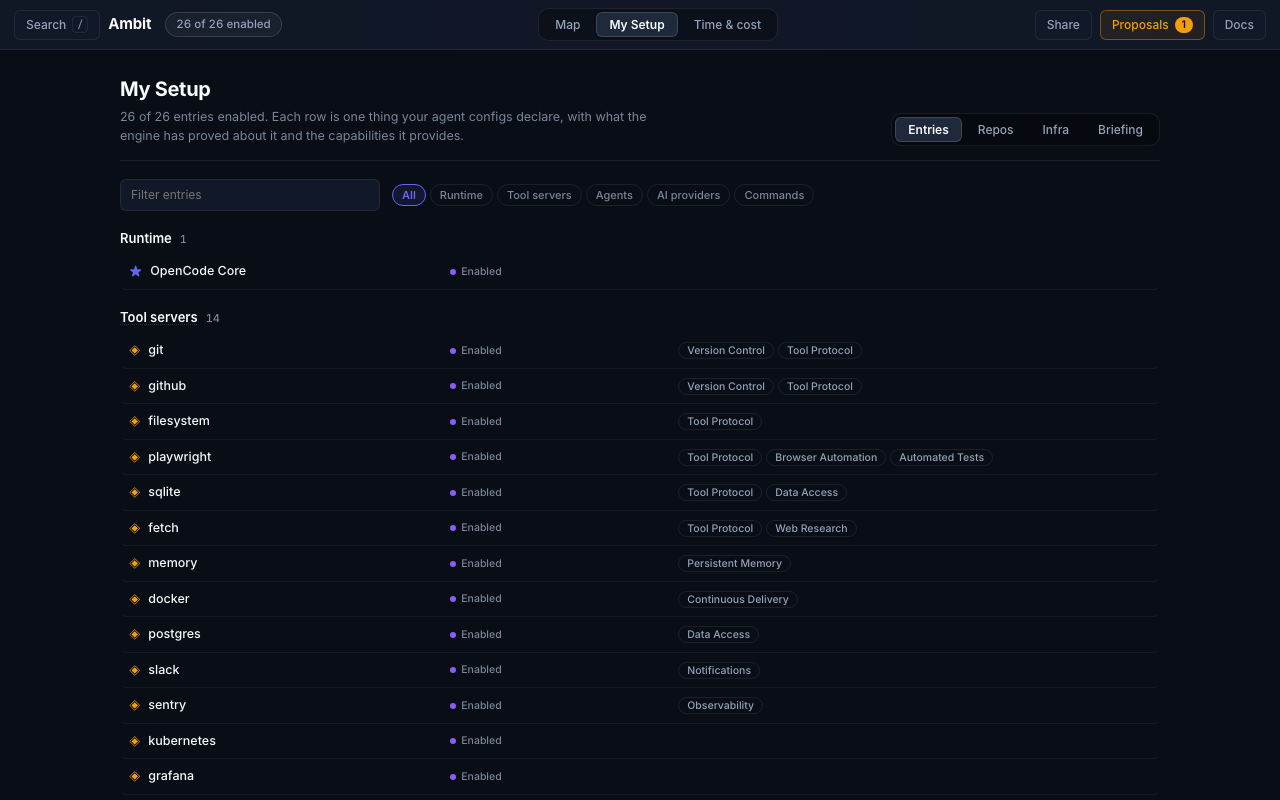
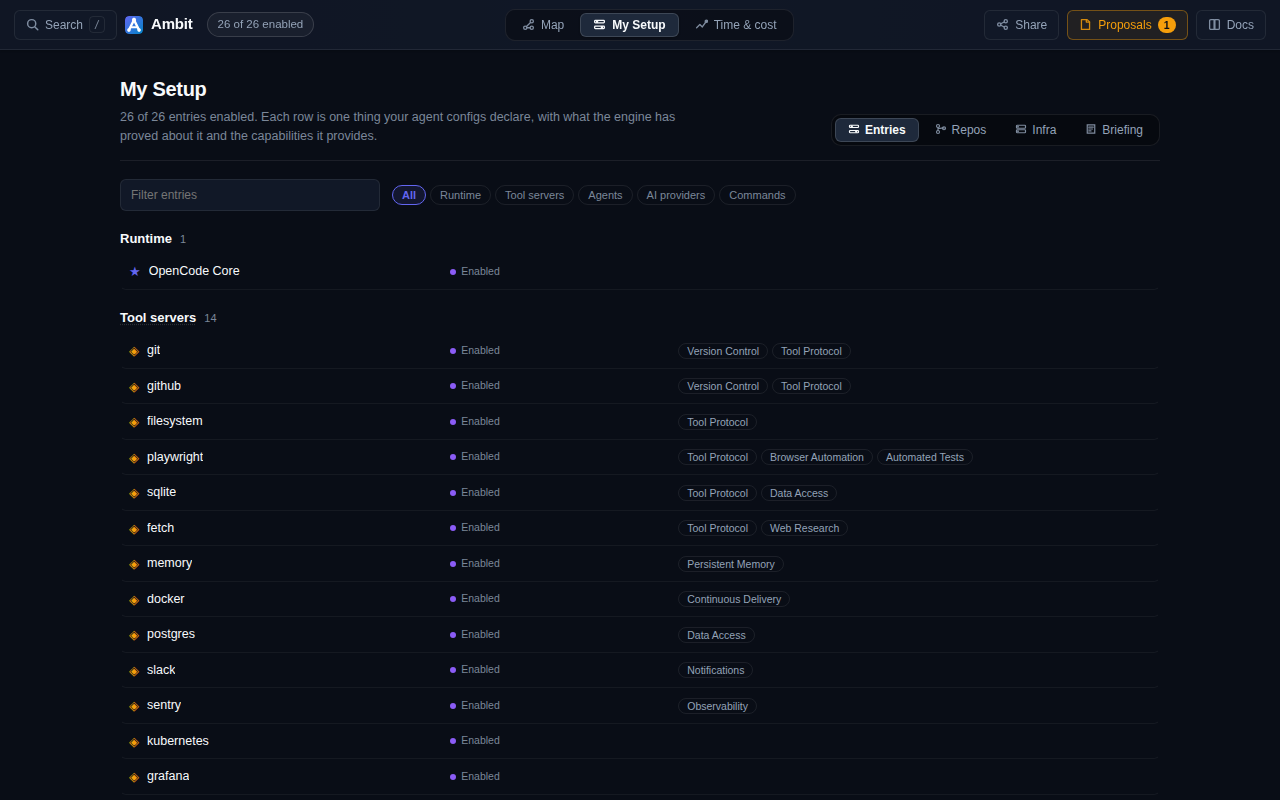
Re-record the README's three pictures of the client
The hero GIF and the two stills were seven client commits behind: the deck
had gained icons, the brand mark had become one component, and the welcome
screen and detail panel had changed under them. All three are re-recorded
by `npm run assets:hero` from the same fixture, so nothing in them
describes a real machine.

The hero caption said switching a tool off turned fourteen capabilities
red. The fixture the recording is built from has it at seven that stop and
two that lose a provider, which is what the frame shows and what the panel
says; the caption and alt text say that now.

Claude-Session: https://claude.ai/code/session_01Bwpqhv5jpjNd2EB7G9QhZB

diff --git a/README.md b/README.md
@@ -13,9 +13,9 @@
 
 <br>
 
-<img src="docs/assets/capability-graph-demo.gif" alt="Ambit showing one developer setup as a map: a tool is selected and its dependents listed, switching it off turns fourteen downstream capabilities red, a second view colors the tools that interrupt a person most often, and a proposed config change waits for approval" width="920">
+<img src="docs/assets/capability-graph-demo.gif" alt="Ambit showing one developer setup as a map: a tool is selected and its dependents listed, switching it off turns seven downstream capabilities red and two amber, a second view colors the tools that interrupt a person most often, and a proposed config change waits for approval" width="920">
 
-<sub>One setup, mapped. Pick a tool and Ambit shows what depends on it; switch it off and it shows the fourteen things that stop working with it. Then which tools interrupt you most, and a change waiting on your approval.</sub>
+<sub>One setup, mapped. Pick a tool and Ambit shows what depends on it; switch it off and it shows the seven things that stop working with it and the two that only lose a provider. Then which tools interrupt you most, and a change waiting on your approval.</sub>
 
 `brew install zz-plant/tap/ambit && ambit`, or [open the hosted demo](https://zz-plant.github.io/ambit/?demo=1) and install nothing.
 
